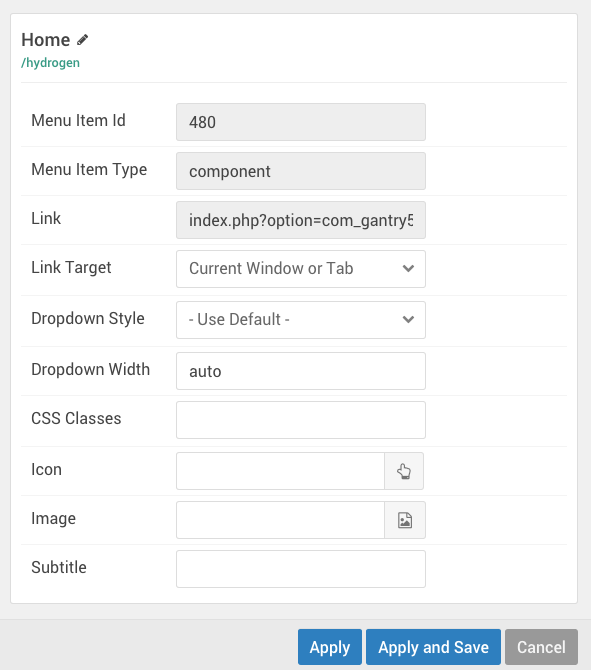
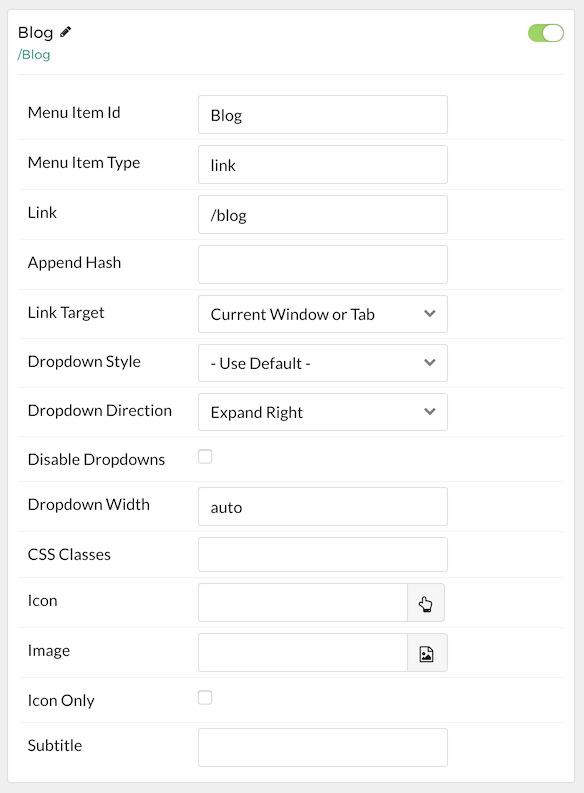
Update Menu Editor Docs

diff --git a/pages/01.gantry5/02.configure/07.menu-editor/docs.md b/pages/01.gantry5/02.configure/07.menu-editor/docs.md
@@ -35,6 +35,9 @@ One common setting is the **Base Path** which sets the base path by which the me
 
 Keep in mind that within the Menu Particle, you can further refine this, setting a **Base Path** as well as the **Start Level** and **End Level** which comes in handy when creating a split menu.
 
+
+!!! In cases where you want to have multiple columns on a drop-down, you may experience issues where your dropdown only displays a single column. If this happens, you can resolve it by setting the `Dropdown Style` setting to **Extended** or **Default** and the `Dropdown Width` to either **Auto** or to a specified width large enough to accommodate your columns.
+
 ## Menu Item Settings
 
 ![Menu Item Settings](menu_item_settings.png?classes=shadow,border)
@@ -43,21 +46,30 @@ Each menu item has a set of settings which can be configured to meet your needs.
 
 Here is a breakdown of these settings and what they can do.
 
-| Menu Item Setting | Description                                                                                                                       |
-| :-----            | :-----                                                                                                                            |
-| Menu Item ID      | This is the ID specific to the menu item.                                                                                         |
-| Menu Item Type    | Sets the type of menu item, controlling how it behaves and the role it plays in the menu.                                         |
-| Link              | The link (relative or absolute) to which the menu item directs the user upon being selected.                                      |
-| Link Target       | Sets the target window behavior for the link. You can set it to either open the link in a new window, or the current one.         |
-| Dropdown Style    | Sets the style of dropdown for sub-menu items that appear under this particular menu item.                                        |
-| Icon              | Powered by FontAwesome, this feature gives you the ability to add a vector icon to your menu item as it is displayed in the menu. |
-| Subtitle          | Enables you to enter a subtitle, displayed below the menu item's title.                                                           |
+| Menu Item Setting  | Description                                                                                                                       |
+| :-----             | :-----                                                                                                                            |
+| Menu Item ID       | This is the ID specific to the menu item.                                                                                         |
+| Menu Item Type     | Sets the type of menu item, controlling how it behaves and the role it plays in the menu.                                         |
+| Link               | The link (relative or absolute) to which the menu item directs the user upon being selected.                                      |
+| Append Hash        | If you'd like to append a hash at the end of the URL, you can add that hash here.                                                 |
+| Link Target        | Sets the target window behavior for the link. You can set it to either open the link in a new window, or the current one.         |
+| Dropdown Style     | Sets the style of dropdown for sub-menu items that appear under this particular menu item.                                        |
+| Dropdown Direction | Set the direction you'd like the dropdown to lean.                                                                                |
+| Disable Dropdowns  | If checked and the item has dropdowns, they will not be rendered.                                                                 |
+| Dropdown Width     | Set the width of the dropdown. Can be set to `Auto`.                                                                              |
+| CSS Classes        | Enter any CSS class(es) you wish to have apply to the item.                                                                       |
+| Icon               | Powered by FontAwesome, this feature gives you the ability to add a vector icon to your menu item as it is displayed in the menu. |
+| Image              | Insert an Image to the item.                                                                                                      |
+| Icon Only          | If selected, only the icon will render.                                                                                           |
+| Subtitle           | Enables you to enter a subtitle, displayed below the menu item's title.                                                           |
 
 Once you have set the settings as you prefer, simply select **Apply** to save the changes and close the pop-up.
 
 These settings expand on the capabilities of the CMS’ integrated menu system, enhancing them with additional functionality and customization options - but only in cases where the CMS does not already provide this feature and changing these options does not have an adverse affect on the menu's functionality.
 
 In Joomla, for example, the **Menu Item ID**, **Menu Item Type**, and **Link** are provided by the CMS. Images can be as well, but overriding them in the Menu Editor is a visual change rather than a functional one, so you should be able to adjust this setting without issue.
+
+!!! In cases where you want to have multiple columns on a drop-down, you may experience issues where your dropdown only displays a single column. If this happens, you can resolve it by setting the `Dropdown Style` setting to **Extended** or **Default** and the `Dropdown Width` to either **Auto** or to a specified width large enough to accommodate your columns.
 
 ## Menu Item Types
 
